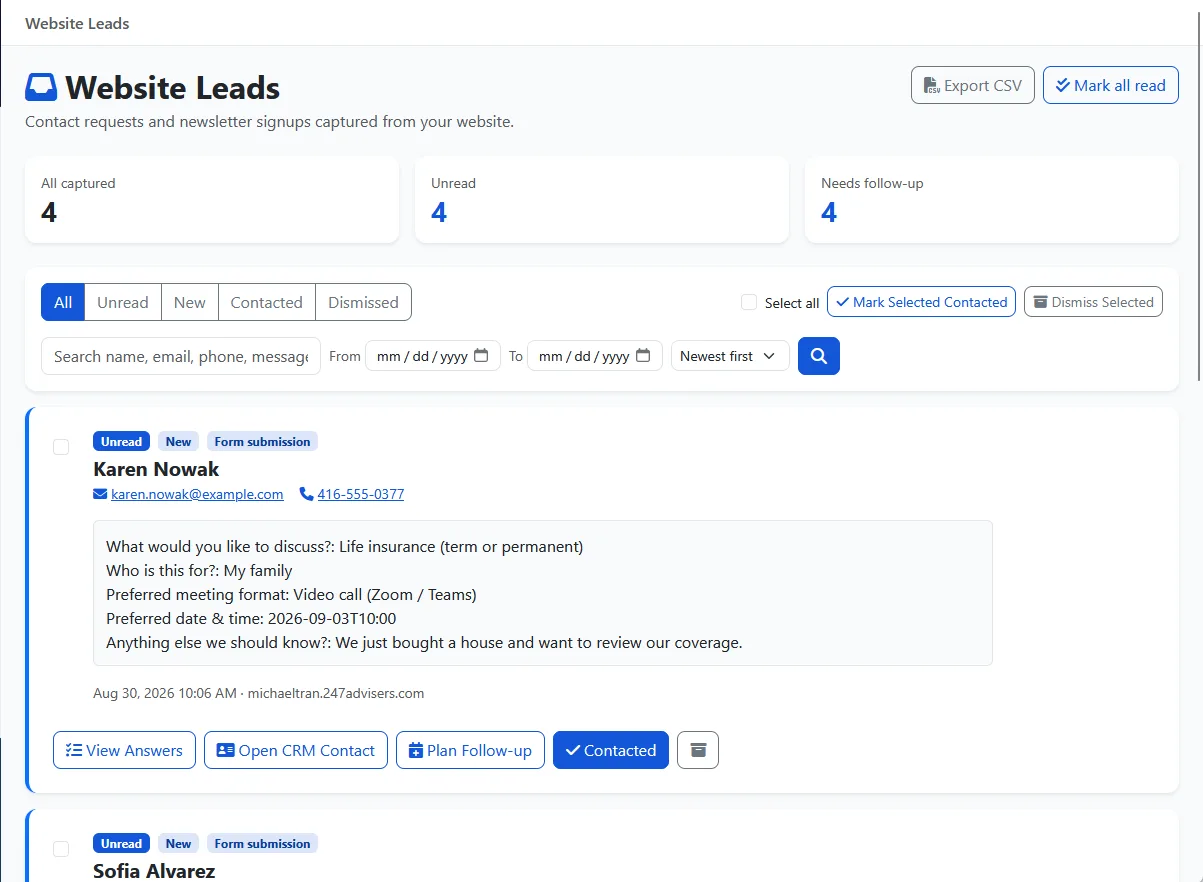
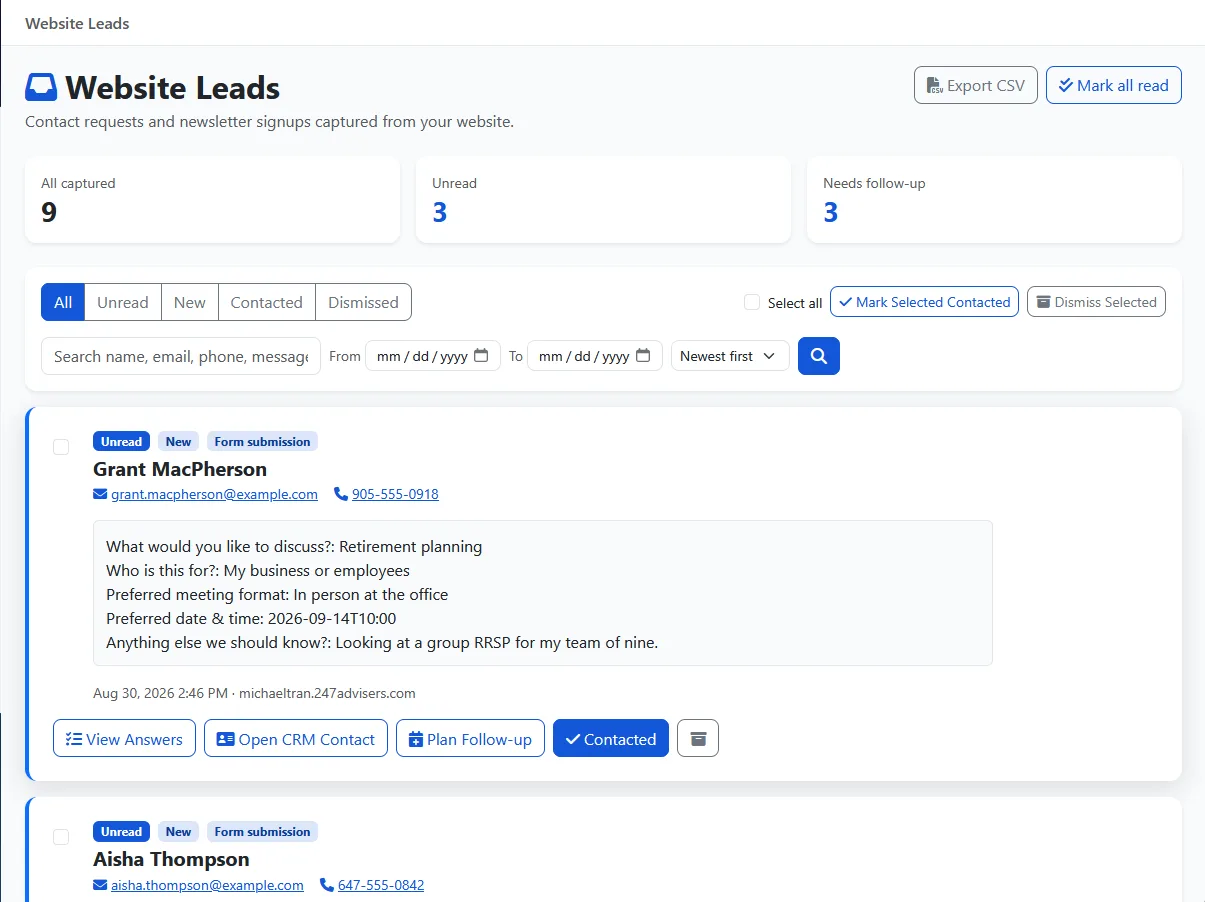
Homepage leads panel: the real, unedited screenshot
The shipped 07-leads.webp had its 'notification could not be delivered' banner
spliced out in an image editor -- a defensible marketing edit at the time, but
the underlying defect was the SendGrid outage. With email restored on Azure,
the leads screen is genuinely clean, so the honest capture replaces the edited
one: three warning-free leads (Grant/Aisha/Monica) whose notifications really
were delivered.

Docs riding along:
- TODO 431 RESOLVED (ACS cutover recorded end to end); 433 opened for the
  Event Grid delivery/bounce pipeline; 434 logged (no hard-delete for website
  leads + dismiss UX reads as a failed delete -- found in live use).
- DNS_ZONE_RUNBOOK: the ACS SPF-verification quirk (rejects merged records and
  ~all; Microsoft's temporary exact-record swap is the fix) and the sender-
  username rule that cost a failed send.

Full gate: 420/420.

diff --git a/DOCS/TODO.md b/DOCS/TODO.md
@@ -128,7 +128,8 @@ michaeltran.247advisers.com. Staged: 18 clients, 13 open follow-ups (Aug 28 - Se
 
 | # | Item | Notes |
 |---|---|---|
-| **431** | **SendGrid out of credits — ALL production email failing (found 2026-08-29 evening)** | Lead notifications on the Michael Tran demo agent stored `401 Unauthorized — "Maximum credits exceeded"` (visible as the warning on all 3 leads in /portal/WebsiteLeads; verification emails still worked that afternoon, so the account ran dry during the day). Until credits reset or the plan is upgraded, signup verification codes, welcome emails, newsletters and lead notifications ALL fail — signups are effectively broken. ESCALATED 2026-08-30 midday: the SendGrid WEB LOGIN is blocked with ERR_USER_FORBIDDEN_ACCESS ("You are not authorized to access this account") - combined with the API 401 "Maximum credits exceeded" this is the signature of an ACCOUNT SUSPENSION by Twilio compliance, not a quota. Likely trigger: weeks of automated QA sends to nonexistent test mailboxes = near-100% bounce rate. Owner actions: (1) check the SendGrid account-owner inbox incl. spam for a compliance notice; (2) try app.sendgrid.com and the Twilio Console door; (3) file "cannot log in" ticket at support.sendgrid.com; (4) if not reinstated by ~Sep 3, switch provider - SendGridEmailService is a single-seam swap; recommend Azure Communication Services Email (Azure-native, CA residency) or a fresh PAID SendGrid with domain auth. STANDING LESSON for the QA harness: never let automated tests send email to mailboxes that cannot receive it. Previously noted: CONFIRMED STILL FAILING 2026-08-30 ~10am on a FRESH lead submission - so NOT a daily-reset cap: either a monthly quota (self-heals Sep 1) or an expired trial (needs paid plan now). New-signup verification codes cannot send until resolved. OWNER: open the SendGrid dashboard → confirm plan + when credits reset; decide the paid-tier upgrade. A paid plan is realistically a **Phase 4 launch prerequisite** (real newsletters will exceed any free cap). After email works again: delete the 3 warning-flagged demo leads and re-submit fresh ones before shooting the Leads screenshot. |
+| ~~431~~ | ~~SendGrid outage~~ **RESOLVED for sending 2026-08-30 evening: production email now runs on Azure Communication Services** — end-to-end verified (fresh lead -> warning-free card -> notification delivered to the agent inbox from support@iproadvisers.com). Cutover notes: ACS resources ipro-prod-comms/ipro-prod-email (Canada), domain verified (the ACS SPF checker rejects merged records AND ~all — the fix is the Microsoft-support-confirmed temporary exact-record swap, now documented in DNS_ZONE_RUNBOOK), sender usernames no-reply + support, Email__Provider=Azure on both apps (settings-change restarts can race a submission — force az webapp restart at any future flip). STILL OPEN (new item 433): the Event Grid delivery/bounce pipeline; sending works, delivery TRACKING does not yet. Cleanup after 433: remove include:sendgrid.net from SPF, delete the SendGrid keys from App Service, close the SendGrid account. Original record: **SendGrid out of credits — ALL production email failing (found 2026-08-29 evening)** | Lead notifications on the Michael Tran demo agent stored `401 Unauthorized — "Maximum credits exceeded"` (visible as the warning on all 3 leads in /portal/WebsiteLeads; verification emails still worked that afternoon, so the account ran dry during the day). Until credits reset or the plan is upgraded, signup verification codes, welcome emails, newsletters and lead notifications ALL fail — signups are effectively broken. ESCALATED 2026-08-30 midday: the SendGrid WEB LOGIN is blocked with ERR_USER_FORBIDDEN_ACCESS ("You are not authorized to access this account") - combined with the API 401 "Maximum credits exceeded" this is the signature of an ACCOUNT SUSPENSION by Twilio compliance, not a quota. Likely trigger: weeks of automated QA sends to nonexistent test mailboxes = near-100% bounce rate. Owner actions: (1) check the SendGrid account-owner inbox incl. spam for a compliance notice; (2) try app.sendgrid.com and the Twilio Console door; (3) file "cannot log in" ticket at support.sendgrid.com; (4) if not reinstated by ~Sep 3, switch provider - SendGridEmailService is a single-seam swap; recommend Azure Communication Services Email (Azure-native, CA residency) or a fresh PAID SendGrid with domain auth. STANDING LESSON for the QA harness: never let automated tests send email to mailboxes that cannot receive it. Previously noted: CONFIRMED STILL FAILING 2026-08-30 ~10am on a FRESH lead submission - so NOT a daily-reset cap: either a monthly quota (self-heals Sep 1) or an expired trial (needs paid plan now). New-signup verification codes cannot send until resolved. OWNER: open the SendGrid dashboard → confirm plan + when credits reset; decide the paid-tier upgrade. A paid plan is realistically a **Phase 4 launch prerequisite** (real newsletters will exceed any free cap). After email works again: delete the 3 warning-flagged demo leads and re-submit fresh ones before shooting the Leads screenshot. |
+| **433** | **ACS email piece 2: Event Grid delivery/bounce pipeline** | Replaces NewsletterController.SendGridEvents: subscribe the Email Communication Service to Event Grid (EmailDeliveryReportReceived + engagement events), correlate on the operation id already stored as ProviderMessageId, feed the SAME three consumers (newsletter recorder, EmailDeliveryTracker, EmailConsentService suppression). Until then bounces/complaints are not recorded (CASL suppression only via our own unsubscribe links, which are provider-independent and still work). ALSO before launch: check the new ACS resource's sending quota and request an increase if newsletters would exceed it. |
 | **432** | **Admin header clock shows UTC, portal shows agent-local** | Cosmetic: Admin's header timestamp read "8:42 PM" when local (Eastern) time was ~4:42 PM — it renders UTC. Portal lead timestamps are correct agent-local. Low priority; fix = format the Admin header with a configured admin timezone. |
 | ~~399~~ | ~~Aug 10 charge count~~ | **PASSED** — exactly one $45.20 on Aug 10. bobtest since deleted (see 400). |
 | **400** | **QA billing restart — day 0 DONE** | bobtest **deleted 2026-08-10 20:30**; deletion cancelled `I-UV5VSN5RM0AP` at PayPal, **verified via API**. The webhook (#397) and the double-tax fix are now live, so the rerun tests the whole pipeline for real. Old bobtest data (incl. the $51.08 invoices) is gone with the agent. |
@@ -158,6 +159,14 @@ michaeltran.247advisers.com. Staged: 18 clients, 13 open follow-ups (Aug 28 - Se
 - **In-portal payments** — blocked on there being a Stripe or equivalent merchant account at all.
 
 ## Backlog — designed or conceptual, none started
+
+- **434 — Website Leads: no way to remove a lead + dismiss UX reads as broken.** Found 2026-08-30
+  while cleaning demo data. Leads only cycle New/Contacted/Dismissed; the "Dismiss" button uses an
+  archive glyph (reads as delete), and the All tab includes dismissed leads, so dismissing looks
+  like a failed delete. Real needs: (a) hard-delete for junk/spam/test leads — also a PIPEDA
+  consideration (non-client personal data retained forever with no removal path); (b) either
+  exclude dismissed from "All" or label the tab honestly. Not launch-critical: Dismiss covers the
+  daily workflow.
 
 | # | Item | State |
 |---|---|---|

diff --git a/DOCS/DNS_ZONE_RUNBOOK.md b/DOCS/DNS_ZONE_RUNBOOK.md
@@ -36,6 +36,17 @@ is ever lost, this file rebuilds the app's DNS from scratch. Re-capture after an
 | `selector1-azurecomm-prod-net._domainkey` | CNAME | `selector1-azurecomm-prod-net._domainkey.azurecomm.net` | ACS DKIM 1 |
 | `selector2-azurecomm-prod-net._domainkey` | CNAME | `selector2-azurecomm-prod-net._domainkey.azurecomm.net` | ACS DKIM 2 |
 
+**ACS SPF verification quirk (cost us 3 failed attempts on 2026-08-30):** Azure's checker
+rejects merged multi-include SPF records AND the `~all` softfail form. The Microsoft-support-
+confirmed procedure: temporarily set the SPF record to exactly
+`v=spf1 include:spf.protection.outlook.com -all`, initiate verification (passes in seconds),
+then restore the full merged record. Verification is one-time and does not re-run. Keep the
+swap window short: the temporary record hard-fails every non-Azure sender.
+
+Sender usernames configured in ACS: `DoNotReply` (auto), `no-reply`, `support` — production
+`Email__FromEmail` is `support@iproadvisers.com`; any new FROM address needs its username
+created in ACS first (error otherwise: InvalidSenderUserName).
+
 A domain may carry only ONE SPF TXT record — always merge, never add a second. The pre-ACS value
 (for history / rollback): `v=spf1 +mx +a +ip4:66.102.128.65 +include:spf.websiteservername.com
 +include:relay.mailchannels.net +include:sendgrid.net ~all`. Old value may linger in resolver
